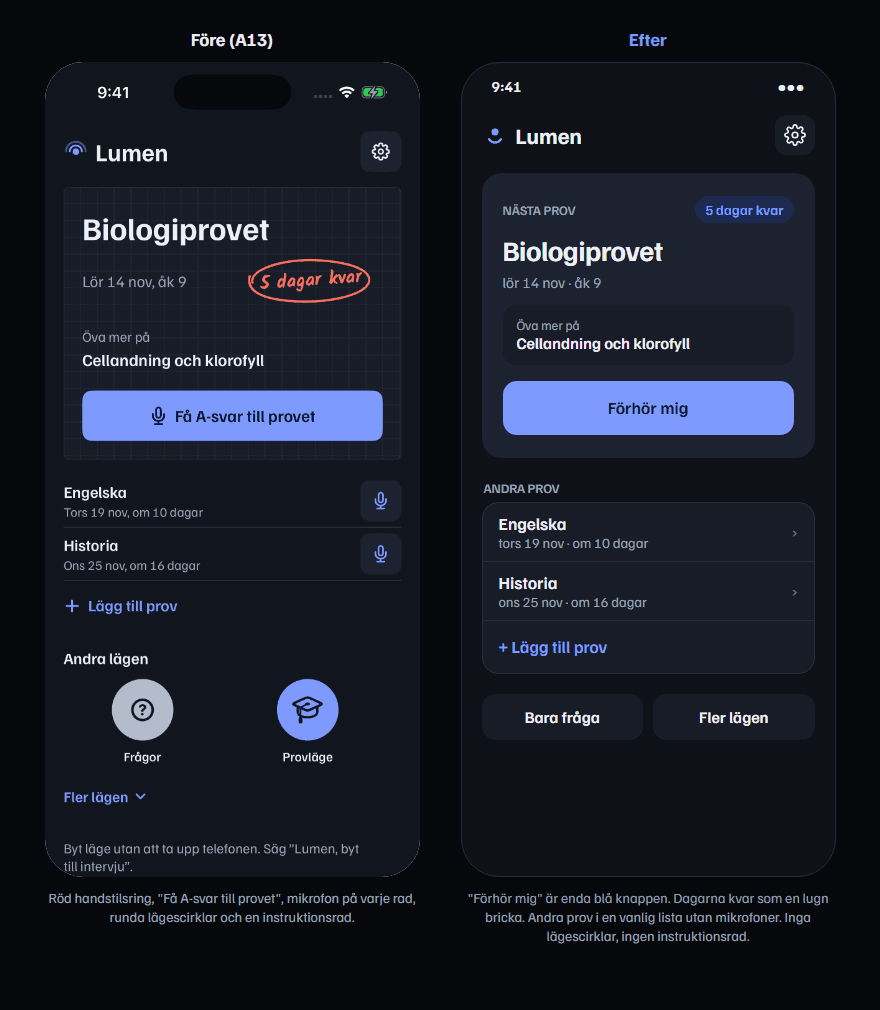
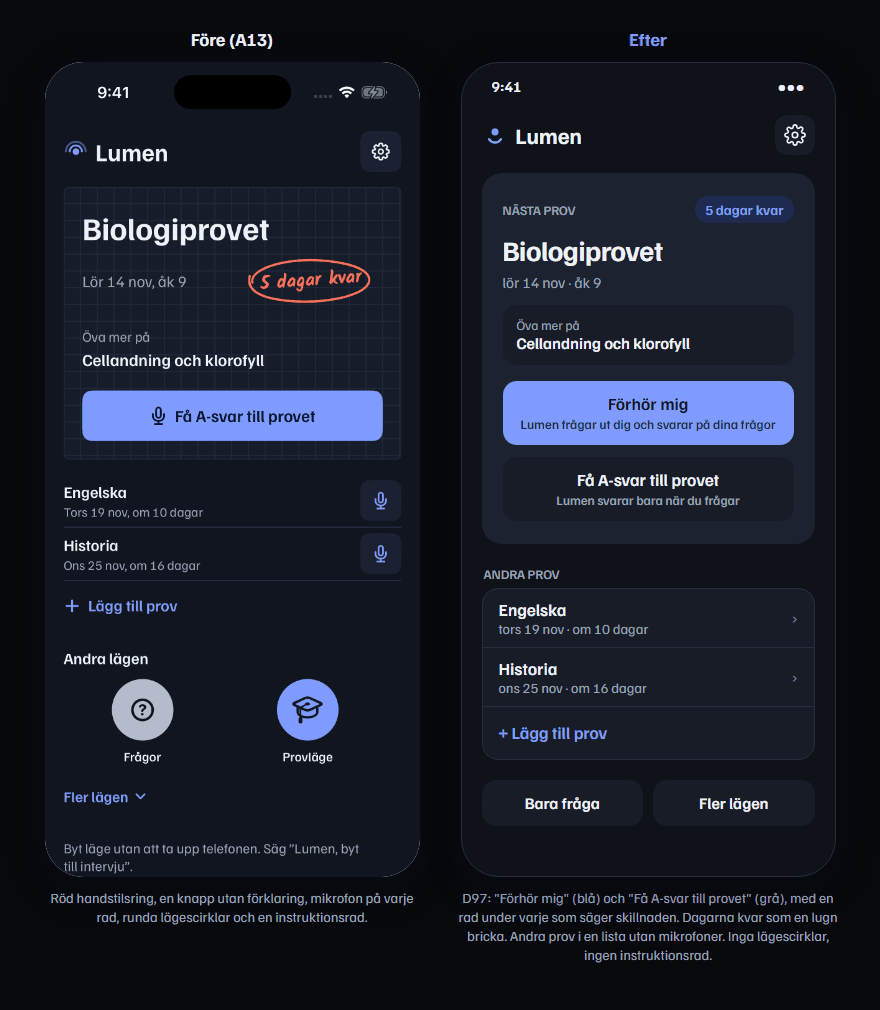
Kelly: Ke13 klar (D97 två knappar på provkortet i SYSTEM.md och skisserna, demosidans steg 3)

diff --git a/docs/design/_src/system.html b/docs/design/_src/system.html
@@ -43,6 +43,9 @@
   .well { background: var(--surface); border-radius: 20px; }
   .btn { display: flex; align-items: center; justify-content: center; gap: 8px; height: 54px; border-radius: 14px; background: var(--blue); color: var(--on-blue); font-weight: 600; font-size: 17px; flex: 1; }
   .btn.sec { background: var(--surface); color: var(--ink); }
+  .btn.two { flex-direction: column; gap: 2px; height: 64px; }
+  .btn.two small { font-size: 13px; font-weight: 500; opacity: .85; }
+  .btn.two.sec small { color: var(--mut); opacity: 1; }
   .link { color: var(--blue); font-weight: 600; font-size: 16px; text-align: center; }
   .bottom { margin-top: auto; padding: 0 20px 28px; display: flex; flex-direction: column; gap: 12px; }
   .ico { width: 22px; height: 22px; flex: none; stroke: currentColor; fill: none; stroke-width: 1.8; stroke-linecap: round; stroke-linejoin: round; }
@@ -185,7 +188,7 @@
 <section class="pair" data-s="start">
   <div class="col"><p class="tag">Före (A13)</p>
     <img class="shot" data-light="../../../reports/2026-11-09-a13-skarmbilder/efter-pro-light-home.png" data-dark="../../../reports/2026-11-09-a13-skarmbilder/efter-pro-dark-home.png" alt="">
-    <p class="cap">Röd handstilsring, "Få A-svar till provet", mikrofon på varje rad, runda lägescirklar och en instruktionsrad.</p></div>
+    <p class="cap">Röd handstilsring, en knapp utan förklaring, mikrofon på varje rad, runda lägescirklar och en instruktionsrad.</p></div>
   <div class="col"><p class="tag after">Efter</p>
     <div class="phone">
       <div class="status"><span>9:41</span><span>●●●</span></div>
@@ -199,7 +202,9 @@
           <h2>Biologiprovet</h2>
           <p class="sub small" style="margin-top:-6px">lör 14 nov · åk 9</p>
           <div class="well" style="padding:12px 14px; border-radius:14px"><p class="note">Öva mer på</p><p style="font-weight:600; font-size:16px">Cellandning och klorofyll</p></div>
-          <div class="btn" style="flex:none; margin-top:4px">Förhör mig</div>
+          <!-- D97 (ägarbeslut): två knappar, namnen ändras inte. En rad under varje visar skillnaden. -->
+          <div class="btn two" style="flex:none; margin-top:4px"><span>Förhör mig</span><small>Lumen frågar ut dig och svarar på dina frågor</small></div>
+          <div class="btn two sec" style="flex:none"><span>Få A-svar till provet</span><small>Lumen svarar bara när du frågar</small></div>
         </div>
         <p class="gtitle" style="padding-left:2px">ANDRA PROV</p>
         <div class="group" style="border:1px solid var(--line)">
@@ -210,7 +215,7 @@
         <div class="row" style="margin-top:20px; gap:10px"><div class="btn sec" style="height:46px; font-size:16px">Bara fråga</div><div class="btn sec" style="height:46px; font-size:16px">Fler lägen</div></div>
       </div>
     </div>
-    <p class="cap">"Förhör mig" är enda blå knappen. Dagarna kvar som en lugn bricka. Andra prov i en vanlig lista utan mikrofoner. Inga lägescirklar, ingen instruktionsrad.</p></div>
+    <p class="cap">D97: "Förhör mig" (blå) och "Få A-svar till provet" (grå), med en rad under varje som säger skillnaden. Dagarna kvar som en lugn bricka. Andra prov i en lista utan mikrofoner. Inga lägescirklar, ingen instruktionsrad.</p></div>
 </section>
 
 <!-- ============ Lyssnar ============ -->

diff --git a/site/index.html b/site/index.html
@@ -691,7 +691,7 @@
     <ol class="steps">
       <li class="paper"><h3>Tryck Testa nu och fråga högt</h3><p>Inget konto. Sätt i AirPods och fråga vad som helst. Svaret hörs i örat.</p><picture><source media="(prefers-color-scheme: dark)" srcset="img/fraga-dark.webp"><img class="shot" src="img/fraga-light.webp" width="300" height="652" loading="lazy" alt="Skärmen Fråga vad som helst i appen: Lumen lyssnar, med exempelfrågan Vad är fotosyntes?"></picture></li>
       <li class="paper"><h3>Säg vilket prov du har</h3><p>Till exempel <span class="hand">”Jag har prov i biologi på fredag”</span>. Du kan också välja ämne och datum.</p><picture><source media="(prefers-color-scheme: dark)" srcset="img/steg1-dark.webp"><img class="shot" src="img/steg1-light.webp" width="300" height="652" loading="lazy" alt="Skärmen Lägg till prov i appen med årskurs, ämne och datum."></picture></li>
-      <li class="paper"><h3>Säg ”Lumen, förhör mig”</h3><p>Lumen ställer frågor om det du pluggar, och du styr resten med rösten.</p><picture><source media="(prefers-color-scheme: dark)" srcset="img/steg3-dark.webp"><img class="shot" src="img/steg3-light.webp" width="300" height="652" loading="lazy" alt="Provläget lyssnar i appen: Ställ en fråga när du vill."></picture></li>
+      <li class="paper"><h3>Säg ”Lumen, förhör mig”</h3><p>Lumen ställer frågor om det du pluggar och svarar på dina. Vill du bara ha svar trycker du Få A-svar till provet.</p><picture><source media="(prefers-color-scheme: dark)" srcset="img/steg3-dark.webp"><img class="shot" src="img/steg3-light.webp" width="300" height="652" loading="lazy" alt="Provläget lyssnar i appen: Ställ en fråga när du vill."></picture></li>
     </ol>
     <p class="shot-note">Skärmbilder från en testversion av appen.</p>
   </section>

diff --git a/docs/STATUS.md b/docs/STATUS.md
@@ -31,7 +31,7 @@ Last updated: 2026-11-08 by Angela (builder).
 - **Provläge (Angela, D36/D38) and Målbeskrivning + Egna kommandon (Angela, D37/D39):** hands-free tutor session (VAD end-of-turn 0.8 s, barge-in, recogniser gated while we speak, auto-end after 10 min releases the microphone, `mode: tutor` with the whole session's `recent_qa`, retried as `push_to_talk` while the backend rejects `tutor`); course goals compact ≤ 1 500 chars as `goals`; keyword commands matched STT-tolerantly and sent as `commands`, spoken "spara kommando …" stored and confirmed. Green in CI (run 41817986402, 249 app tests); **untested on device**; the backend (answer v8) still rejects `mode: tutor` (400, the app falls back to `push_to_talk`) and ignores the new `goals`/`commands` fields until Kevin's D36/D37 tasks land, so the tutor style and command effects are not yet observable. Also the D35 setting *Svarslängd* (Kort / Anpassad / Utförlig → backend `length`, Settings → Answers), green in run 41819618434 (250 app tests). Reports: `reports/2026-11-04-1214-angela-plugglage.md`, `reports/2026-11-04-1214-angela-goals-commands.md`; checklist §3r–3s.
 - **Easy switch to music (Angela, D33):** Pause/Resume on the listening screen, Lock Screen (Live Activity) and a Control; pause releases the audio session, interruptions never auto-resume (also with `shouldResume`), nothing is spoken while paused. New extension `LumenControls`. Green in CI (run 41806325518); **untested on device**, and the Control's process and Lock Screen resume are untested assumptions. Report: `reports/2026-11-04-1130-angela-d33-music-switch.md`.
 - **Queue D44–D58 (Angela, 2026-11-06):** Historik and Minne on the phone (D49/D56), Scribe as default recogniser with Apple as fallback (D44), Mikrofon per mode + comparison in Diagnostics (D55), mode picker with Intervjuläge and Rizzläge on the StudyMachine (D42/D43), report + Feedback & förslag + opt-in sharing (D57), Siri phrases, Start control and spoken pause (D58), checklist §3t–3z. Also fixed: `goals`/`commands` were sent where the backend does not read them. Green in CI (run 42259754856, 315 app tests). **Nothing has run on a device.** `/feedback` and `/shared-history` are not deployed yet. **Open for Aron:** the discreet indicator was not built (see report, Concerns). Report: `reports/2026-11-06-1830-angela-queue-d49-d58.md`.
-- **Offentlig demosida (Kelly, D62/D66/D86):** Kelly: **Ke9 klar** (en väg på demosidan: demo → "Så kommer du igång" i 3 steg → en knapp; mobil 8 533 → 4 226 px, Lighthouse 100; designunderlag för appen i `docs/design/enkel-start.md` till A18; `reports/2026-11-10-0735-kelly-ke9-enkel-start.md`; live, Pages-deploy grön). Ke10 klar (underlag för Start utan prov, Lyssnar och Mikrofon nekad; `reports/2026-11-10-0735-kelly-ke10-vanliga-vagen.md`). Ke11 klar (FAQ synlig på sidan, samma ord i demons rad; `reports/2026-11-10-0740-kelly-ke11-ord-faq.md`). Ke12b klar (designspec app mot sida i `docs/design/designspec.md`; `reports/2026-11-10-0738-kelly-ke12b-designspec.md`). **Ke12 klar:** nytt designsystem `docs/design/SYSTEM.md` (ersätter D86:s skollook i appen) med 3 loggförslag och 5 skärmar före/efter till A18; `reports/2026-11-10-0746-kelly-ke12-proffsig-pluggapp.md`. Ke13b klar: sidan i SYSTEM.md (ingen handstil eller rutpapper, Kalam bort, 1 699 kB); `reports/2026-11-10-0751-kelly-ke13-sida-nya-systemet.md`. Ke3 klar (steg med T3-bilder, animation, FAQ, sitemap). Ke2 klar (fokus till svaret efter en fråga, träffytor 44 px, taket för tal provat live med fejkad mikrofon; `reports/2026-11-08-1815-kelly-ke2-oscar-fynd.md`). Ke1 klar (riktiga Provläge-exempel med inspelat ljud, väntelisterad efter svaret, svepbara exempelfrågor på mobil, inga layoutskift, delningsbild och favicon; 61 kB vid start; `reports/2026-11-08-1640-kelly-ke1-demo.md`). Sidan är **publicerad** på https://aronstenlund-code.github.io/aronstenlund-airpods-ai/ (Pages på 2026-11-08, run 42486945392: check och deploy gröna). Live verifierat i Chromium: en riktig fråga gav svar (signup, answer, tts 200), typsnitten laddas och CORS tillåter adressen. Appens design (D86) med platshållare för foto. Ändringar i `site/` publiceras av sig själva vid push till main. **Ej testad på iPhone, Safari eller AirPods.** Kvar: riktigt foto. Rapporter: `reports/2026-11-08-1250-kelly-demo-publish.md`, `reports/2026-11-08-1450-kelly-demo-d86.md`.
+- **Offentlig demosida (Kelly, D62/D66/D86):** Kelly: **Ke9 klar** (en väg på demosidan: demo → "Så kommer du igång" i 3 steg → en knapp; mobil 8 533 → 4 226 px, Lighthouse 100; designunderlag för appen i `docs/design/enkel-start.md` till A18; `reports/2026-11-10-0735-kelly-ke9-enkel-start.md`; live, Pages-deploy grön). Ke10 klar (underlag för Start utan prov, Lyssnar och Mikrofon nekad; `reports/2026-11-10-0735-kelly-ke10-vanliga-vagen.md`). Ke11 klar (FAQ synlig på sidan, samma ord i demons rad; `reports/2026-11-10-0740-kelly-ke11-ord-faq.md`). Ke12b klar (designspec app mot sida i `docs/design/designspec.md`; `reports/2026-11-10-0738-kelly-ke12b-designspec.md`). **Ke12 klar:** nytt designsystem `docs/design/SYSTEM.md` (ersätter D86:s skollook i appen) med 3 loggförslag och 5 skärmar före/efter till A18; `reports/2026-11-10-0746-kelly-ke12-proffsig-pluggapp.md`. Ke13 klar: D97 två knappar på provkortet i SYSTEM.md och skisserna; `reports/2026-11-10-0754-kelly-ke13-d97-tva-knappar.md`. Ke13b klar: sidan i SYSTEM.md (ingen handstil eller rutpapper, Kalam bort, 1 699 kB); `reports/2026-11-10-0751-kelly-ke13-sida-nya-systemet.md`. Ke3 klar (steg med T3-bilder, animation, FAQ, sitemap). Ke2 klar (fokus till svaret efter en fråga, träffytor 44 px, taket för tal provat live med fejkad mikrofon; `reports/2026-11-08-1815-kelly-ke2-oscar-fynd.md`). Ke1 klar (riktiga Provläge-exempel med inspelat ljud, väntelisterad efter svaret, svepbara exempelfrågor på mobil, inga layoutskift, delningsbild och favicon; 61 kB vid start; `reports/2026-11-08-1640-kelly-ke1-demo.md`). Sidan är **publicerad** på https://aronstenlund-code.github.io/aronstenlund-airpods-ai/ (Pages på 2026-11-08, run 42486945392: check och deploy gröna). Live verifierat i Chromium: en riktig fråga gav svar (signup, answer, tts 200), typsnitten laddas och CORS tillåter adressen. Appens design (D86) med platshållare för foto. Ändringar i `site/` publiceras av sig själva vid push till main. **Ej testad på iPhone, Safari eller AirPods.** Kvar: riktigt foto. Rapporter: `reports/2026-11-08-1250-kelly-demo-publish.md`, `reports/2026-11-08-1450-kelly-demo-d86.md`.
 - **D63 + indicator (Angela, 2026-11-06):** Rizzläge flirty only behind an 18+ gate, new Socialt läge, slimmer indicator that keeps its text and Stop (D68, Aron confirmed "Behåll texten"). Green in CI (run 42268384817, 320 app tests). **Untested on device.** Both live modes fail against the server until Kevin's D63 is deployed. Report: `reports/2026-11-06-1945-angela-d63-indicator.md`.
 - **Device install without a Mac (Angela, D70, 2026-11-07):** CI archives the app unsigned and uploads `Lumen-unsigned.ipa` (artifact `Lumen-unsigned`, 14 days) on green builds of main and on manual runs; no entitlements in the repo, so nothing is dropped. Swedish steps: `docs/INSTALL-SIDELOADLY.md`. Aron installed it on an iPhone 14 Pro (iOS 26.5).
 - **Crash when the microphone starts, fixed (Angela, 2026-11-07):** the capture tap closure inherited `@MainActor` and Swift 6 trapped on Core Audio's real-time queue (9 crashes on device). Six callbacks (two audio taps, the synthesizer buffer callback, the player completion handler, the SFSpeech result and authorization handlers) are now nonisolated; a test calls each from a background queue. **D71:** Provläge never auto-ends by default. Commit `4a50887`. **Untested on device** until Aron reinstalls. Report: `reports/2026-11-07-1640-angela-crash-fix-callbacks.md`.

diff --git a/docs/design/SYSTEM.md b/docs/design/SYSTEM.md
@@ -57,11 +57,14 @@ använder `raised` i stället. **Ikoner:** SF Symbols i vikt regular, 20–22 pt
 
 ## 3. Komponenter
 - **Huvudknapp:** blå, höjd 54, hörn 14. **Högst en per skärm.**
+- **Knapp med förklaring** (D97): två rader, rubrik 17 semibold och en rad 13 under, höjd 64. Används på provkortet,
+  där "Förhör mig" (blå) och "Få A-svar till provet" (sekundär) står ihop och raden under säger skillnaden.
 - **Sekundär knapp:** `surface`-yta, bläck-text. Används för Pausa, Klar, Bara fråga och Fler lägen.
 - **Textknapp:** blå text, för "Hoppa över", "+ Lägg till prov" och "Läs mer".
 - **Fara:** röd text, bara i bekräftelser ("Radera minnet"). Aldrig för Avsluta.
 - **Kort:** `raised`, hörn 20, skugga. Provkortet: liten rubrik "NÄSTA PROV", bricka med dagar kvar, rubrik, datum,
-  en brunn med "Öva mer på" och huvudknappen.
+  en brunn med "Öva mer på", och sist **"Förhör mig"** ("Lumen frågar ut dig och svarar på dina frågor") och **"Få A-svar
+  till provet"** ("Lumen svarar bara när du frågar"). Namnen är Arons beslut (D97) och ändras inte.
 - **Bricka:** `soft` och blå text, helt rund. "5 dagar kvar" ersätter den röda handstilsringen.
 - **Lyssnar-bricka:** blå punkt med en mjuk ring, texten och nivåmätaren i en rund bricka mitt på skärmen. Texterna:
   "Lyssnar", "Hör inte, försöker igen", "Pausad" och "Svarar".
@@ -93,7 +96,7 @@ Symbolen ersätter radiovågorna överallt: appikonen, introt, Start och demosid
 |---|---|---|
 | Intro | `bilder/system/intro.png`, `-dark` | Elias-kortet i stället för grå hörlurar på rutpapper. En mening under rubriken. Löftena som en lugn lista. Samtyckesmeningen står kvar under Testa nu. |
 | Första frågan | `fraga.png`, `-dark` | Ingen handstil: frågan i 15 semibold grå, svaret i 20. Lyssnar-brickan i kortet. Fortsätt syns först efter svaret. |
-| Start | `start.png`, `-dark` | Provkortet med brickan "5 dagar kvar" och "Förhör mig". Andra prov i en lista utan mikrofoner. "Bara fråga" och "Fler lägen" som sekundära knappar. Inga lägescirklar och ingen instruktionsrad. |
+| Start | `start.png`, `-dark` | Provkortet med brickan "5 dagar kvar" och D97:s två knappar, "Förhör mig" och "Få A-svar till provet", med en rad under varje. Andra prov i en lista utan mikrofoner. "Bara fråga" och "Fler lägen" som sekundära knappar. Inga lägescirklar och ingen instruktionsrad. |
 | Lyssnar | `lyssnar.png`, `-dark` | Titeln i mitten, "Byt läge" under ⋯. Lyssnar-brickan i mitten. Pausa och Klar är neutrala; Pausa blir blå "Lyssna igen" när det är pausat. Tummen ned (D57) står kvar. |
 | Inställningar | `inst.png`, `-dark` | iOS-lista i fyra grupper. Rösten beskrivs, och provlyssning och hastighet ligger på Röst-sidan. Prov tas bort (hanteras på Start). Licenser bara under Om Lumen › Licenser. |
 

diff --git a/docs/design/enkel-start.md b/docs/design/enkel-start.md
@@ -15,7 +15,7 @@ Underlag till Angela (A18). Före = Tobys T3 och Angelas A13-bilder (simulator).
 | Intro | `bilder/intro-fore-efter.png` | Elias i ett kort som på sidan. En mening under rubriken ("Telefonen stannar i fickan."). "Läs mer" inne i samtyckeskortet, så att knappen inte täcker den. Finstilt kortas till "Inget konto. Testa nu betyder att du godkänner punkterna ovan." |
 | Fråga vad som helst | `bilder/fraga-fore-efter.png` | En exempelfråga, inte tre. Ingen blå knapp innan första svaret (bara en tyst "Hoppa över"); "Fortsätt" blir blå när svaret har kommit. Nivåmätaren från A13 i kortet. |
 | Lägg till prov (första start) | `bilder/prov-fore-efter.png` | Rubrik "Har du prov snart?". Rösten först, och Lumen lyssnar redan. Tre rader: ämne (5 chips), datum, årskurs (en rad, minns valet). Delämne frågas i Provläget. "Inte nu" i stället för "Hoppa över". |
-| Start | `bilder/start-fore-efter.png`, `-dark.png` | En blå knapp: **"Förhör mig"** (i dag "Få A-svar till provet", se Concerns). Andra prov som rader utan mikrofonknappar. Provläge-cirkeln tas bort när ett prov finns (den gör samma sak som den blå knappen); Frågor blir en liten knapp "Bara fråga" bredvid "Fler lägen". Raden "Byt läge utan att ta upp telefonen" flyttas till Lyssnar. |
+| Start | `bilder/start-fore-efter.png`, `-dark.png` | **Ersatt av D97 (ägarbeslut):** två knappar, "Förhör mig" och "Få A-svar till provet", se `SYSTEM.md` och `bilder/system/start.png`. Ursprungligt förslag: en blå knapp "Förhör mig". Andra prov som rader utan mikrofonknappar. Provläge-cirkeln tas bort när ett prov finns (den gör samma sak som den blå knappen); Frågor blir en liten knapp "Bara fråga" bredvid "Fler lägen". Raden "Byt läge utan att ta upp telefonen" flyttas till Lyssnar. |
 | Lyssnar (Provläge, tomt) | `bilder/lyssnar-fore-efter.png`, `-dark.png` | "Förhör mig" är den enda blå knappen. Pausa och Klar lika tysta; rött bara för fel. Ett röstkommando åt gången. |
 | Dela historik | (ingen bild) | Ut ur första starten: frågas en gång när första passet är slut. D57 säger "i onboarding", så det behöver ett ja (Till Aron). |
 | Inställningar | (A13 är redan bra) | Prov-avsnittet kan tas bort ur Inställningar, eftersom proven hanteras på Start. |

diff --git a/prompts/queue/BOARD.md b/prompts/queue/BOARD.md
@@ -18,4 +18,4 @@ Kolumnerna:
 | Angela (app) | Opus 5.5 (claude-opus-5-5) | low (sessionens inställning) | A21, A18, A20 byggda → CI → rapporter; sedan stående uppgift | jobbar | A21: 2 av nya testerna föll på testfel (rättade); A18 (en blå knapp per skärm, 5 kommandon, Elias i introt) och A20 (taltempo, tyst förhör) pushade i 59a697f, CI pågår | 2026-11-10 07:52 | 0 klara i sessionen (3 i CI) |
 | Oscar (QA) | Opus 5.5 (claude-opus-5-5) | high | O15 (180/215 körda) → stående uppgift (O15b, 82 fall klara att köra) | jobbar; **brådskande: ElevenLabs-krediterna slut 07:45** (se STATUS); väntar på att Supabase släpper inloggningsspärren för nya testanvändare | O12 klar: v4 Turbo tydligast (teckenfel 0,002, 0 stamningar), första ljud p50 420 ms, behåll v4 + Adam; A/B-par i Actions. O14 klar | 2026-11-10 07:55 | 2 punkter (O14, O12) |
 | Toby (apptest) | Opus 5.5 (claude-opus-5-5) | low | T7 (Mer-fönstret): testet på `toby/t7-more`, skript och CI-flöde nu. Sedan T8, T5b när A21 är klar | jobbar | T5 klar: Frågor 9/10 upplästa, Provläge 1 av 4 turer, 60 min 0 döva perioder | 2026-11-10 09:00 | 0 punkter klara (ny session), T7 pågår |
-| Kelly (demosida) | Opus 5.5 (claude-opus-5-5) | low (sessionens inställning) | Ke13 (D97: två knappar på provkortet) | jobbar (självständigt läge) | Ke13b klar: sidan i SYSTEM.md (ingen handstil/rutpapper, kort, Kalam bort), site 1 731 → 1 699 kB, Lighthouse dator 100/100/96/100 (96 = 429 från anonym signup). API 0 USD | 2026-11-10 07:56 | 6 punkter (Ke9–Ke12, Ke12b, Ke13b), byt snart (överlämning skriven), fortsätter |
+| Kelly (demosida) | Opus 5.5 (claude-opus-5-5) | low (sessionens inställning) | nästa i kön, annars stående uppgift | jobbar (självständigt läge) | Ke13 klar: D97 två knappar på provkortet i SYSTEM.md och skisserna (Förhör mig blå, Få A-svar till provet sekundär, en rad under varje), demosidans steg 3 med samma ord. API 0 USD | 2026-11-10 07:54 | 7 punkter (Ke9–Ke13, Ke12b, Ke13b), byt snart (överlämning skriven), fortsätter |

diff --git a/prompts/queue/kelly.md b/prompts/queue/kelly.md
@@ -66,4 +66,4 @@ Aron (2026-11-08): demosidan måste bli väldigt bra.
 - [x] klar 2026-11-10 07:51 → reports/2026-11-10-0751-kelly-ke13-sida-nya-systemet.md (Safari/iPhone ej provad; logga väntar på Aron) **Ke13b – Stående uppgift (PLAN 2b): demosidan i det nya systemet (SYSTEM.md)** (effort: medium, Kelly själv). Samma som appen: ingen handstil (exempelfrågor, frågor och svar i vanlig text), rutpappret bort eller nästan osynligt, kort med mjuk skugga, Lyssnar-bricka, en huvudknapp. Loggan byts först när Aron valt. Lighthouse ≥ 95, `site/` ≤ 2 MB, före/efter mobil ljust och mörkt.
   7. **D97 (ägarbeslut, slutgiltigt):** provkortet har två knappar, **"Förhör mig"** (förhör + svarar på egna frågor) och **"Få A-svar till provet"** (svarar bara). Rita båda så att skillnaden syns direkt, t.ex. en kort rad under varje. Byt inte namnen.
 
-- [~] pågår 2026-11-10 07:56 **Ke13 – D97: två knappar på provkortet** (effort: medium). Gör nu. Ägarbeslut (Aron 2026-11-10, slutgiltigt): provkortet har **"Förhör mig"** (Lumen ställer frågor och svarar på elevens egna frågor) och **"Få A-svar till provet"** (svarar bara på frågor, förhör aldrig). Uppdatera `docs/design/SYSTEM.md` och Ke12-skisserna för Start så att båda knapparna finns och skillnaden syns direkt (en kort rad under varje). Byt inte namnen. Samma ord på demosidan.
+- [x] klar 2026-11-10 07:54 → reports/2026-11-10-0754-kelly-ke13-d97-tva-knappar.md **Ke13 – D97: två knappar på provkortet** (effort: medium). Gör nu. Ägarbeslut (Aron 2026-11-10, slutgiltigt): provkortet har **"Förhör mig"** (Lumen ställer frågor och svarar på elevens egna frågor) och **"Få A-svar till provet"** (svarar bara på frågor, förhör aldrig). Uppdatera `docs/design/SYSTEM.md` och Ke12-skisserna för Start så att båda knapparna finns och skillnaden syns direkt (en kort rad under varje). Byt inte namnen. Samma ord på demosidan.

diff --git a/reports/2026-11-10-0754-kelly-ke13-d97-tva-knappar.md b/reports/2026-11-10-0754-kelly-ke13-d97-tva-knappar.md
@@ -1,0 +1,25 @@
+# Ke13: D97, två knappar på provkortet (Kelly, 2026-11-10)
+
+Kort: provkortet i det nya systemet har nu Arons två knappar (D97, slutgiltigt): **"Förhör mig"** (blå) och **"Få A-svar
+till provet"** (sekundär). Under varje knapp står en rad som säger skillnaden. Namnen är oförändrade.
+**Skiss, ingen appkod ändrad, inget provat på telefon.**
+
+## Vad som gjorts
+- `docs/design/_src/system.html` och `bilder/system/start.png` och `start-dark.png`: provkortet har två knappar med
+  förklaring.
+  - "Förhör mig": *Lumen frågar ut dig och svarar på dina frågor*.
+  - "Få A-svar till provet": *Lumen svarar bara när du frågar*.
+  - Båda knapparna är 64 pt höga och har texten på två rader.
+- `docs/design/SYSTEM.md`: ny komponent "Knapp med förklaring", och provkortet och Start-raden beskriver D97.
+  Huvudknappsregeln gäller fortfarande: bara "Förhör mig" är blå.
+- `docs/design/enkel-start.md`: Ke9:s förslag om en enda knapp är markerat som ersatt av D97. Min tidigare Concern om
+  namnet "Få A-svar" är besvarad av ägaren.
+- Demosidan, steg 3: "Lumen ställer frågor om det du pluggar och svarar på dina. Vill du bara ha svar trycker du Få
+  A-svar till provet." Samma ord som appen. Bild: `reports/2026-11-10-ke13-sida/d97-steg3.png`. Inget överflöd vid 390 px
+  och inga JS-fel. Lighthouse kördes inte, för att inte skapa fler anonyma inloggningar (se Ke13b).
+
+## Till Aron
+Inget nytt. Logga A, B eller C väntar fortfarande (Ke12).
+
+## Concerns
+Inga.

diff --git a/docs/HANDOVER-KELLY.md b/docs/HANDOVER-KELLY.md
@@ -25,7 +25,7 @@ Det här står inte i rapporterna. Rapporterna `reports/*kelly*` täcker resten.
 - Samtyckesmeningen under Testa nu och tummen ned (D57) får aldrig försvinna ur en skiss.
 
 ## Öppna trådar
-- Ke13b klar: sidan följer SYSTEM.md. **Ke13 (D97, två knappar på provkortet) pågår.** Loggan och `og-elias.png` (har rutpapper) byts när Aron valt A, B eller C.
+- Ke13b klar: sidan följer SYSTEM.md. Ke13 (D97, två knappar på provkortet) klar. Loggan och `og-elias.png` (har rutpapper) byts när Aron valt A, B eller C.
 - Kör inte Lighthouse många gånger i rad: varje körning skapar en anonym inloggning, och spärren ger 429 (Best Practices 96).
 - Skärmbilderna i sidans tre steg ska bytas när A18 är byggd (Toby tar nya).
 - Safari och iPhone är inte provade för någonting på sidan. Rich Results-testet mot live-URL är inte gjort.
